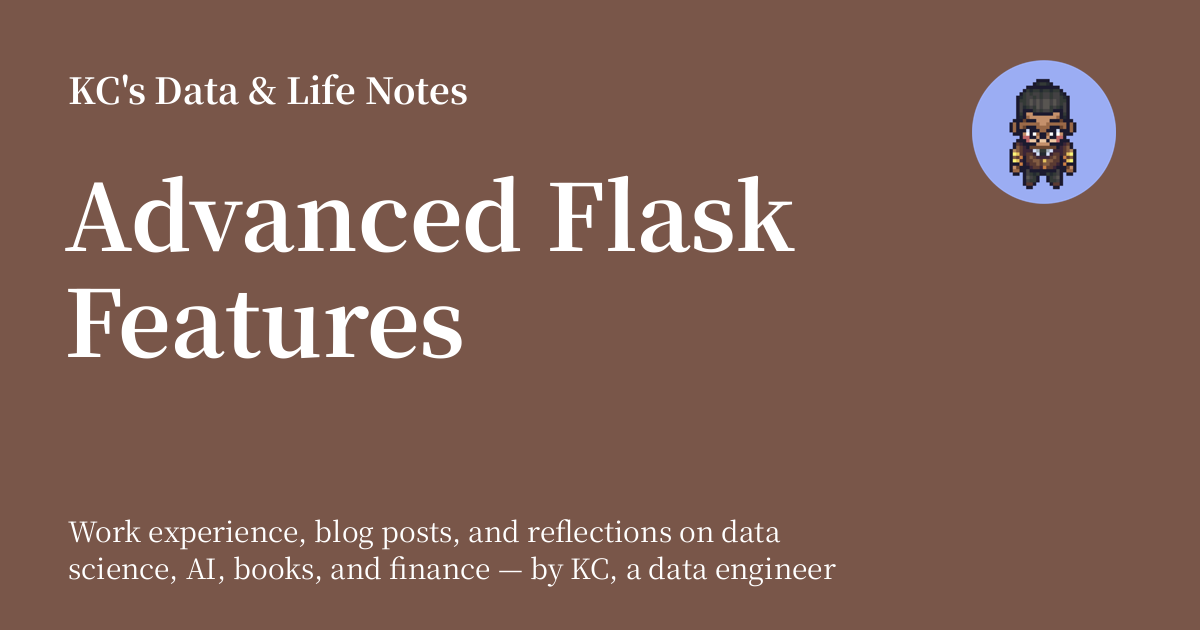
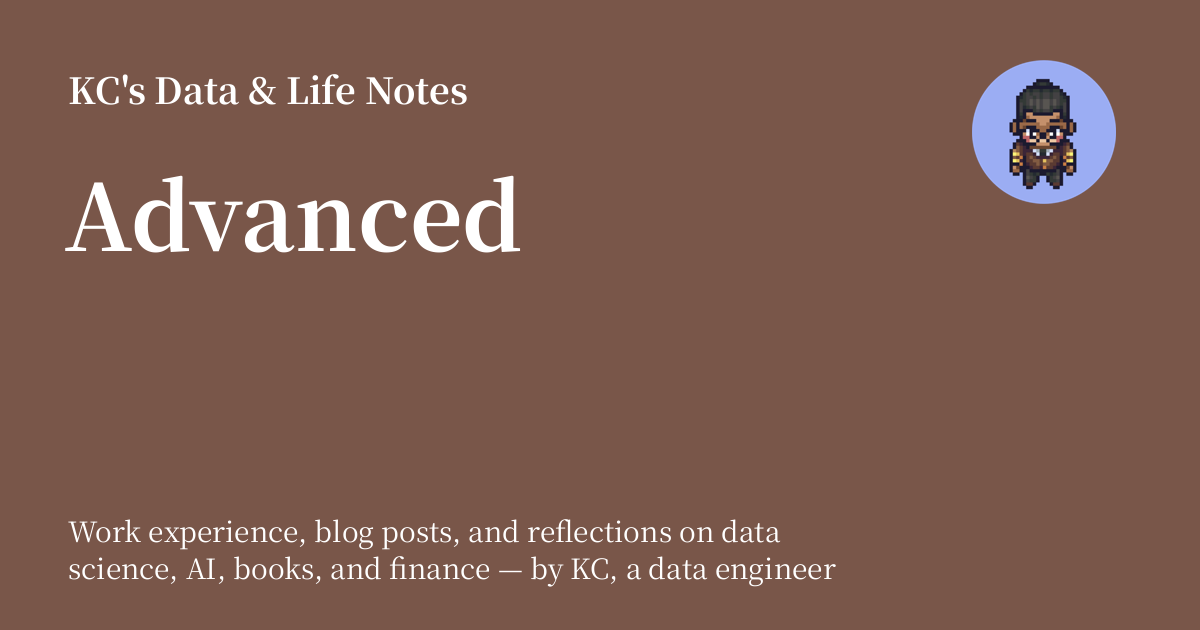
Deployed afe2e8a with MkDocs version: 1.5.3

Changed region(s): [[0.0617, 0.4524, 0.4008, 0.573], [0.4625, 0.2714, 0.6783, 0.4222]]

diff --git a/side-projects/restful-apis-with-flask/docs/basics/index.html b/side-projects/restful-apis-with-flask/docs/basics/index.html
@@ -26,7 +26,7 @@
     
     
       
-        <title>Flask Basics - KC's Data & Life Notes</title>
+        <title>Basics - KC's Data & Life Notes</title>
       
     
     
@@ -77,7 +77,7 @@
       
         <meta  property="og:type"  content="website" >
       
-        <meta  property="og:title"  content="Flask Basics - KC's Data & Life Notes" >
+        <meta  property="og:title"  content="Basics - KC's Data & Life Notes" >
       
         <meta  property="og:description"  content="Work experience, blog posts, and reflections on data science, AI, books, and finance — by KC, a data engineer exploring tech and life." >
       
@@ -93,7 +93,7 @@
       
         <meta  name="twitter:card"  content="summary_large_image" >
       
-        <meta  name="twitter:title"  content="Flask Basics - KC's Data & Life Notes" >
+        <meta  name="twitter:title"  content="Basics - KC's Data & Life Notes" >
       
         <meta  name="twitter:description"  content="Work experience, blog posts, and reflections on data science, AI, books, and finance — by KC, a data engineer exploring tech and life." >
       
@@ -129,7 +129,7 @@
     <div data-md-component="skip">
       
         
-        <a href="#flask-basics" class="md-skip">
+        <a href="#basics" class="md-skip">
           Skip to content
         </a>
       
@@ -162,7 +162,7 @@
         <div class="md-header__topic" data-md-component="header-topic">
           <span class="md-ellipsis">
             
-              Flask Basics
+              Basics
             
           </span>
         </div>
@@ -1053,7 +1053,7 @@
           
   
   <span class="md-ellipsis">
-    Flask Basics
+    Basics
   </span>
   
 
@@ -1064,7 +1064,7 @@
         
   
   <span class="md-ellipsis">
-    Flask Basics
+    Basics
   </span>
   
 
@@ -1179,7 +1179,7 @@
         
   
   <span class="md-ellipsis">
-    Advanced Flask Features
+    Advanced
   </span>
   
 
@@ -1568,7 +1568,7 @@
   
 
 
-<h1 id="flask-basics">Flask Basics<a class="headerlink" href="#flask-basics" title="Permanent link">&para;</a></h1>
+<h1 id="basics">Basics<a class="headerlink" href="#basics" title="Permanent link">&para;</a></h1>
 <h2 id="section-3-introduction-to-flask">Section 3: Introduction to Flask<a class="headerlink" href="#section-3-introduction-to-flask" title="Permanent link">&para;</a></h2>
 <ul>
 <li>Introduction to the Flask web framework, using decorators to set up application routes.</li>
@@ -1654,7 +1654,7 @@ Access <a href="http://64.225.122.125/stores">here</a> (created on 2020/05/30) t
     <span class="md-icon" title="Last update">
       <svg xmlns="http://www.w3.org/2000/svg" viewBox="0 0 24 24"><path d="M21 13.1c-.1 0-.3.1-.4.2l-1 1 2.1 2.1 1-1c.2-.2.2-.6 0-.8l-1.3-1.3c-.1-.1-.2-.2-.4-.2m-1.9 1.8-6.1 6V23h2.1l6.1-6.1-2.1-2M12.5 7v5.2l4 2.4-1 1L11 13V7h1.5M11 21.9c-5.1-.5-9-4.8-9-9.9C2 6.5 6.5 2 12 2c5.3 0 9.6 4.1 10 9.3-.3-.1-.6-.2-1-.2s-.7.1-1 .2C19.6 7.2 16.2 4 12 4c-4.4 0-8 3.6-8 8 0 4.1 3.1 7.5 7.1 7.9l-.1.2v1.8Z"/></svg>
     </span>
-    <span class="git-revision-date-localized-plugin git-revision-date-localized-plugin-timeago"><span class="timeago" datetime="2025-04-05T12:07:09+08:00" locale="en"></span></span><span class="git-revision-date-localized-plugin git-revision-date-localized-plugin-iso_date">2025-04-05</span>
+    <span class="git-revision-date-localized-plugin git-revision-date-localized-plugin-timeago"><span class="timeago" datetime="2025-04-06T06:32:25+08:00" locale="en"></span></span><span class="git-revision-date-localized-plugin git-revision-date-localized-plugin-iso_date">2025-04-06</span>
   </span>
 
     

diff --git a/side-projects/restful-apis-with-flask/docs/advanced/index.html b/side-projects/restful-apis-with-flask/docs/advanced/index.html
@@ -26,7 +26,7 @@
     
     
       
-        <title>Advanced Flask Features - KC's Data & Life Notes</title>
+        <title>Advanced - KC's Data & Life Notes</title>
       
     
     
@@ -77,7 +77,7 @@
       
         <meta  property="og:type"  content="website" >
       
-        <meta  property="og:title"  content="Advanced Flask Features - KC's Data & Life Notes" >
+        <meta  property="og:title"  content="Advanced - KC's Data & Life Notes" >
       
         <meta  property="og:description"  content="Work experience, blog posts, and reflections on data science, AI, books, and finance — by KC, a data engineer exploring tech and life." >
       
@@ -93,7 +93,7 @@
       
         <meta  name="twitter:card"  content="summary_large_image" >
       
-        <meta  name="twitter:title"  content="Advanced Flask Features - KC's Data & Life Notes" >
+        <meta  name="twitter:title"  content="Advanced - KC's Data & Life Notes" >
       
         <meta  name="twitter:description"  content="Work experience, blog posts, and reflections on data science, AI, books, and finance — by KC, a data engineer exploring tech and life." >
       
@@ -129,7 +129,7 @@
     <div data-md-component="skip">
       
         
-        <a href="#advanced-flask-features" class="md-skip">
+        <a href="#advanced" class="md-skip">
           Skip to content
         </a>
       
@@ -162,7 +162,7 @@
         <div class="md-header__topic" data-md-component="header-topic">
           <span class="md-ellipsis">
             
-              Advanced Flask Features
+              Advanced
             
           </span>
         </div>
@@ -1044,7 +1044,7 @@
         
   
   <span class="md-ellipsis">
-    Flask Basics
+    Basics
   </span>
   
 
@@ -1074,7 +1074,7 @@
           
   
   <span class="md-ellipsis">
-    Advanced Flask Features
+    Advanced
   </span>
   
 
@@ -1085,7 +1085,7 @@
         
   
   <span class="md-ellipsis">
-    Advanced Flask Features
+    Advanced
   </span>
   
 
@@ -1568,7 +1568,7 @@
   
 
 
-<h1 id="advanced-flask-features">Advanced Flask Features<a class="headerlink" href="#advanced-flask-features" title="Permanent link">&para;</a></h1>
+<h1 id="advanced">Advanced<a class="headerlink" href="#advanced" title="Permanent link">&para;</a></h1>
 <h2 id="section-1-course-preparations">Section 1: Course Preparations<a class="headerlink" href="#section-1-course-preparations" title="Permanent link">&para;</a></h2>
 <p>Preparations for the course:</p>
 <ul>
@@ -1639,7 +1639,7 @@
     <span class="md-icon" title="Last update">
       <svg xmlns="http://www.w3.org/2000/svg" viewBox="0 0 24 24"><path d="M21 13.1c-.1 0-.3.1-.4.2l-1 1 2.1 2.1 1-1c.2-.2.2-.6 0-.8l-1.3-1.3c-.1-.1-.2-.2-.4-.2m-1.9 1.8-6.1 6V23h2.1l6.1-6.1-2.1-2M12.5 7v5.2l4 2.4-1 1L11 13V7h1.5M11 21.9c-5.1-.5-9-4.8-9-9.9C2 6.5 6.5 2 12 2c5.3 0 9.6 4.1 10 9.3-.3-.1-.6-.2-1-.2s-.7.1-1 .2C19.6 7.2 16.2 4 12 4c-4.4 0-8 3.6-8 8 0 4.1 3.1 7.5 7.1 7.9l-.1.2v1.8Z"/></svg>
     </span>
-    <span class="git-revision-date-localized-plugin git-revision-date-localized-plugin-timeago"><span class="timeago" datetime="2025-04-05T12:07:09+08:00" locale="en"></span></span><span class="git-revision-date-localized-plugin git-revision-date-localized-plugin-iso_date">2025-04-05</span>
+    <span class="git-revision-date-localized-plugin git-revision-date-localized-plugin-timeago"><span class="timeago" datetime="2025-04-06T06:32:25+08:00" locale="en"></span></span><span class="git-revision-date-localized-plugin git-revision-date-localized-plugin-iso_date">2025-04-06</span>
   </span>
 
     

diff --git a/about-me/education/ccu/index.html b/about-me/education/ccu/index.html
@@ -1054,7 +1054,7 @@
         
   
   <span class="md-ellipsis">
-    Flask Basics
+    Basics
   </span>
   
 
@@ -1075,7 +1075,7 @@
         
   
   <span class="md-ellipsis">
-    Advanced Flask Features
+    Advanced
   </span>
   
 

diff --git a/about-me/education/iii/index.html b/about-me/education/iii/index.html
@@ -1054,7 +1054,7 @@
         
   
   <span class="md-ellipsis">
-    Flask Basics
+    Basics
   </span>
   
 
@@ -1075,7 +1075,7 @@
         
   
   <span class="md-ellipsis">
-    Advanced Flask Features
+    Advanced
   </span>
   
 

diff --git a/about-me/education/nccu/index.html b/about-me/education/nccu/index.html
@@ -1054,7 +1054,7 @@
         
   
   <span class="md-ellipsis">
-    Flask Basics
+    Basics
   </span>
   
 
@@ -1075,7 +1075,7 @@
         
   
   <span class="md-ellipsis">
-    Advanced Flask Features
+    Advanced
   </span>
   
 

diff --git a/about-me/index.html b/about-me/index.html
@@ -1042,7 +1042,7 @@
         
   
   <span class="md-ellipsis">
-    Flask Basics
+    Basics
   </span>
   
 
@@ -1063,7 +1063,7 @@
         
   
   <span class="md-ellipsis">
-    Advanced Flask Features
+    Advanced
   </span>
   
 

diff --git a/about-me/public-speakings/index.html b/about-me/public-speakings/index.html
@@ -1044,7 +1044,7 @@
         
   
   <span class="md-ellipsis">
-    Flask Basics
+    Basics
   </span>
   
 
@@ -1065,7 +1065,7 @@
         
   
   <span class="md-ellipsis">
-    Advanced Flask Features
+    Advanced
   </span>
   
 

diff --git a/about-me/work-experience/itri/itri/index.html b/about-me/work-experience/itri/itri/index.html
@@ -1054,7 +1054,7 @@
         
   
   <span class="md-ellipsis">
-    Flask Basics
+    Basics
   </span>
   
 
@@ -1075,7 +1075,7 @@
         
   
   <span class="md-ellipsis">
-    Advanced Flask Features
+    Advanced
   </span>
   
 

diff --git a/about-me/work-experience/ninox/ninox/index.html b/about-me/work-experience/ninox/ninox/index.html
@@ -1113,7 +1113,7 @@
         
   
   <span class="md-ellipsis">
-    Flask Basics
+    Basics
   </span>
   
 
@@ -1134,7 +1134,7 @@
         
   
   <span class="md-ellipsis">
-    Advanced Flask Features
+    Advanced
   </span>
   
 

diff --git a/about-me/work-experience/tvbs/slide-data-mesh/1/index.html b/about-me/work-experience/tvbs/slide-data-mesh/1/index.html
@@ -1031,7 +1031,7 @@
         
   
   <span class="md-ellipsis">
-    Flask Basics
+    Basics
   </span>
   
 
@@ -1052,7 +1052,7 @@
         
   
   <span class="md-ellipsis">
-    Advanced Flask Features
+    Advanced
   </span>
   
 

diff --git a/about-me/work-experience/tvbs/slide-data-mesh/2/index.html b/about-me/work-experience/tvbs/slide-data-mesh/2/index.html
@@ -1031,7 +1031,7 @@
         
   
   <span class="md-ellipsis">
-    Flask Basics
+    Basics
   </span>
   
 
@@ -1052,7 +1052,7 @@
         
   
   <span class="md-ellipsis">
-    Advanced Flask Features
+    Advanced
   </span>
   
 

diff --git a/about-me/work-experience/tvbs/slide-data-mesh/3/index.html b/about-me/work-experience/tvbs/slide-data-mesh/3/index.html
@@ -1031,7 +1031,7 @@
         
   
   <span class="md-ellipsis">
-    Flask Basics
+    Basics
   </span>
   
 
@@ -1052,7 +1052,7 @@
         
   
   <span class="md-ellipsis">
-    Advanced Flask Features
+    Advanced
   </span>
   
 
